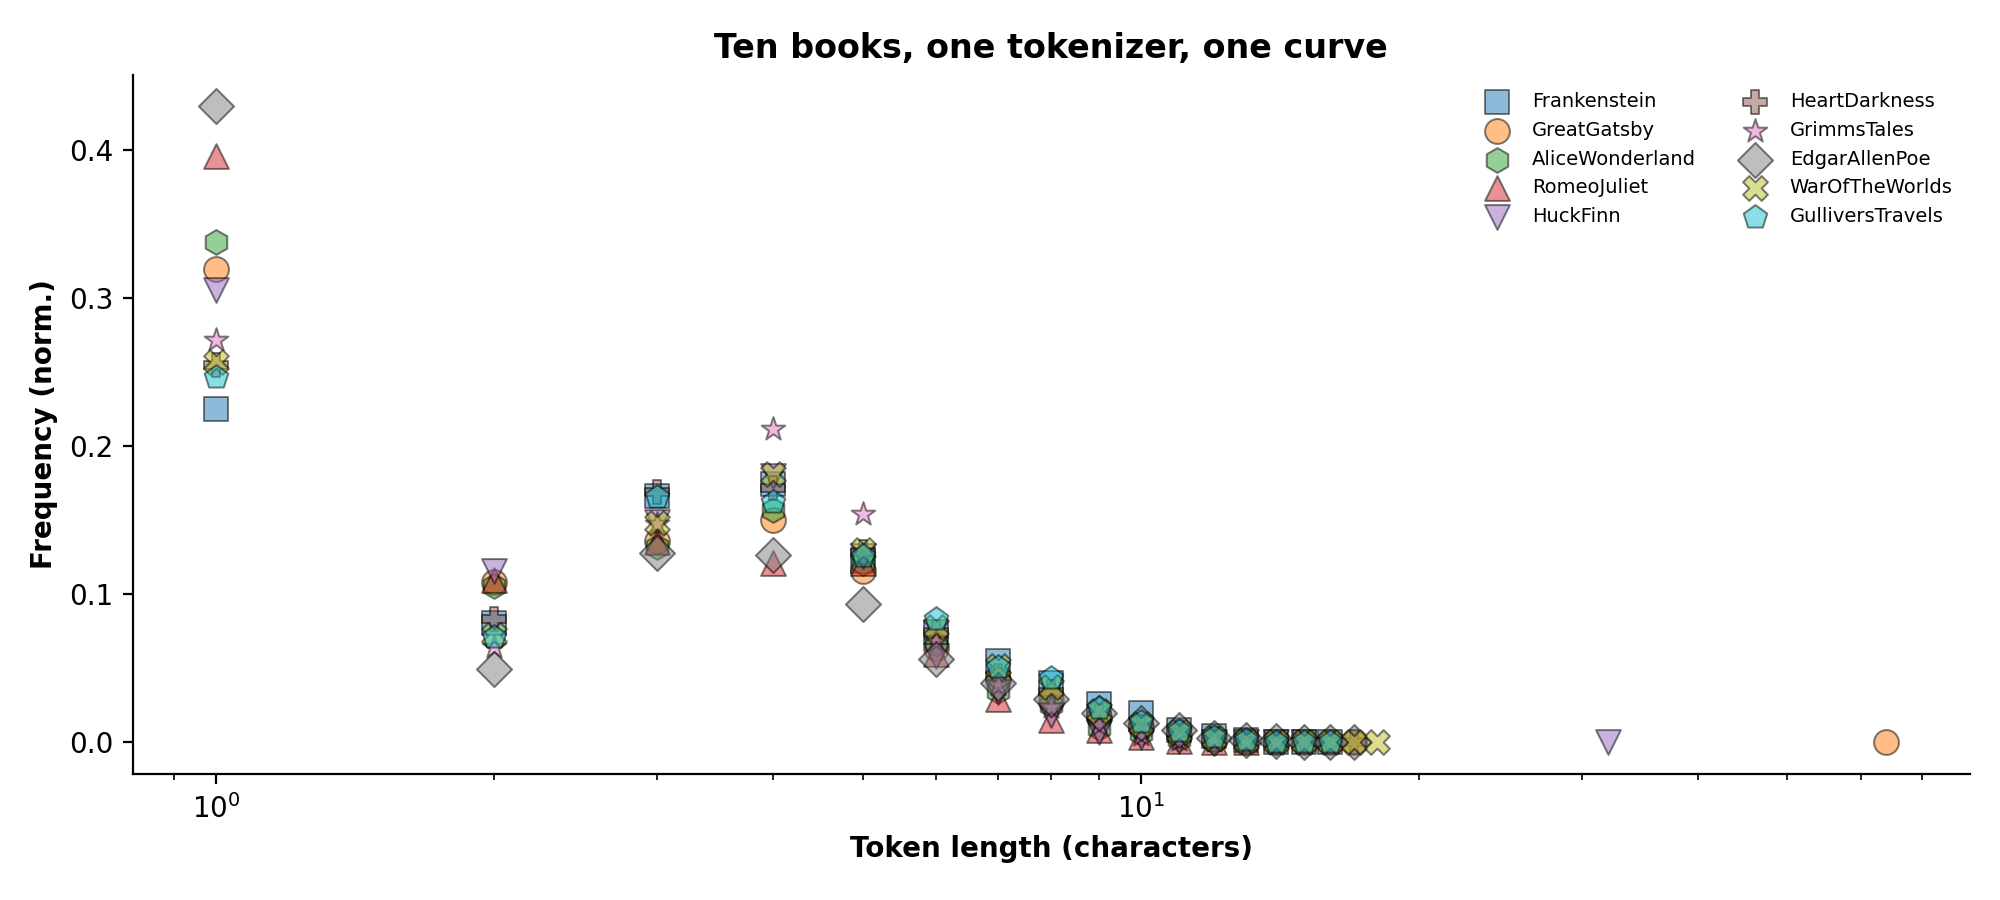
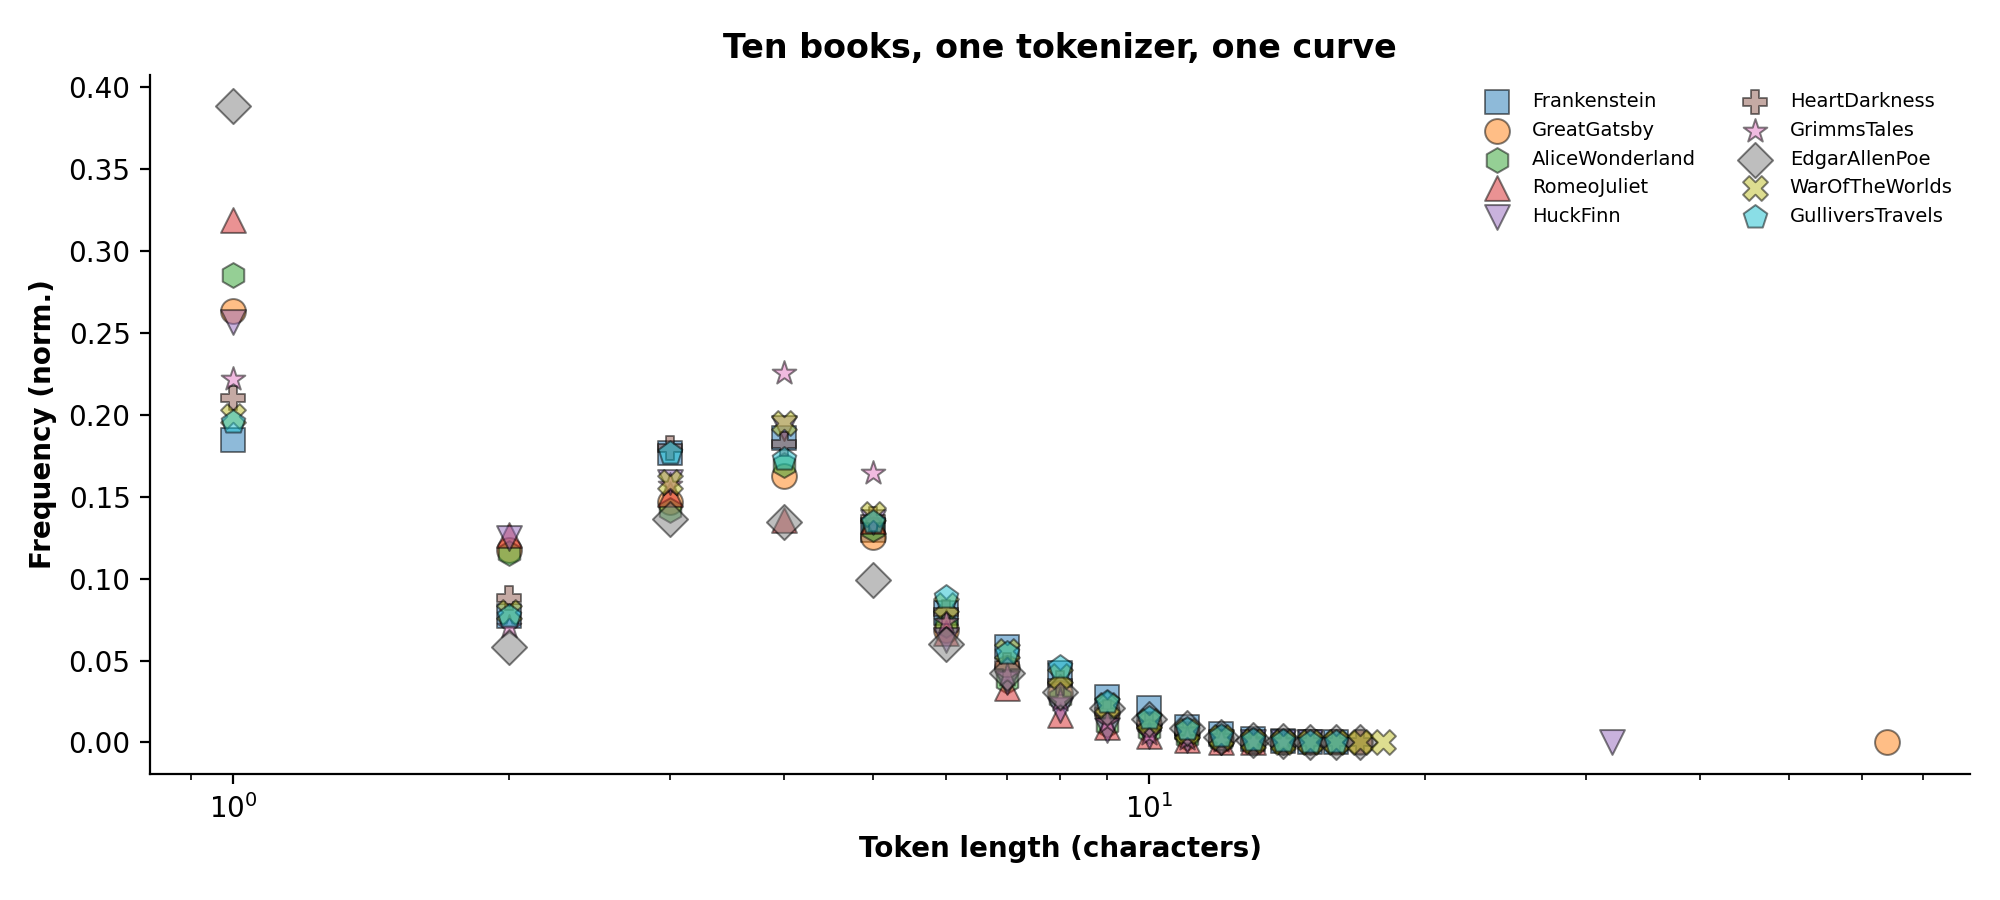
Fix a newline bug that made the cached corpus non-reproducible; add run screenshot
Caught while diffing regenerated results against the committed ones: the token counts
moved 2% on nine of ten books while the character counts stayed identical.

Cause: several Gutenberg files mix lone CR with CRLF, and Path.write_text on Windows
translates LF to CRLF again on the way out, so reading the cache back through universal
newlines doubled every blank line. The Great Gatsby cached at 277,090 characters against
a true 270,690. The first run tokenized the freshly downloaded string and every later run
tokenized the inflated cache: 84,246 tokens versus 82,535. GPT-2 tokenizes CR differently
from LF, which is why the character count hid the problem.

Fix: normalise_newlines() at fetch time and newline="" on write. Cold and warm caches now
agree byte for byte, verified against a live re-download.

All results regenerated on the corrected corpus. The findings are unchanged in substance:
script detection is still 100% on every seed, Telugu and Tamil are still 99.2% single-byte
tokens and still indistinguishable by histogram (L1 0.0020, now 34x closer than any other
pair), and the cost regressor still beats the mean baseline by 39x. The numbers themselves
shifted, so the README tables, the seed sweep and every quoted figure are updated: English
is 4.12 chars/token rather than 3.94, Indic costs 6.1x-10.6x rather than 5.9x-10.2x, and
nine-way language accuracy is 77.8%.

Two regression tests added so this cannot return silently: one on normalise_newlines, one
[…]

diff --git a/project03_token_lengths/corpus.py b/project03_token_lengths/corpus.py
@@ -72,14 +72,30 @@ def _get_polite(url: str, params: dict, tries: int = 6):
     raise RuntimeError(f"still rate-limited after {tries} attempts: {url}")
 
 
+def normalise_newlines(text: str) -> str:
+    """Collapse CRLF and lone CR to LF.
+
+    This is not cosmetic. Several Gutenberg files contain thousands of *lone* CR
+    characters, and Python's universal-newline handling rewrites them to LF when the
+    cache is read back. Without normalising at fetch time, the first run (which
+    tokenizes the freshly downloaded string) and every later run (which reads the
+    cache) see different text and produce different token counts -- for The Great
+    Gatsby, 84,246 tokens versus 82,535, a 2% gap at an identical character count,
+    because GPT-2 tokenizes CR differently from LF. Normalising here makes a cold
+    cache and a warm cache agree.
+    """
+    return text.replace("\r\n", "\n").replace("\r", "\n")
+
+
 def _cached(name: str, fetch) -> str:
     """Return cached text, fetching once if the cache is cold."""
     CACHE.mkdir(exist_ok=True)
     path = CACHE / name
     if path.exists():
-        return path.read_text(encoding="utf-8")
-    text = fetch()
-    path.write_text(text, encoding="utf-8")
+        return normalise_newlines(path.read_text(encoding="utf-8"))
+    text = normalise_newlines(fetch())
+    # newline="" stops Windows translating LF back to CRLF on the way out.
+    path.write_text(text, encoding="utf-8", newline="")
     return text
 
 

diff --git a/project03_token_lengths/test_project03.py b/project03_token_lengths/test_project03.py
@@ -91,6 +91,19 @@ def test_gutenberg_boilerplate_is_stripped():
     assert strip_gutenberg_boilerplate(raw) == "real text"
 
 
+def test_newlines_are_normalised():
+    from corpus import normalise_newlines
+    assert normalise_newlines("a\r\nb\rc\nd") == "a\nb\nc\nd"
+
+
+def test_cached_text_contains_no_carriage_returns(corpus):
+    """The bug this guards against: Windows write_text re-translated LF to CRLF on top
+    of Gutenberg's existing CRLF, so reading the cache back doubled every blank line and
+    the warm cache tokenized differently from the fresh download."""
+    for name, d in corpus.items():
+        assert "\r" not in d["text"], f"{name} still carries CR characters"
+
+
 def test_corpus_is_roughly_balanced_within_script(corpus):
     """Indic samples must be big enough to measure; the first run gave 216 chars."""
     for name, d in corpus.items():

diff --git a/project03_token_lengths/README.md b/project03_token_lengths/README.md
@@ -25,19 +25,19 @@ peak at 4.
 
 | | chars/token |
 |---|---|
-| Romeo & Juliet | 2.89 |
-| Alice in Wonderland | 3.08 |
-| Huckleberry Finn | 3.09 |
-| Edgar Allen Poe | 3.18 |
-| The Great Gatsby | 3.29 |
-| Grimms' Tales | 3.45 |
-| Heart of Darkness | 3.61 |
-| War of the Worlds | 3.76 |
-| Gulliver's Travels | 3.86 |
-| Frankenstein | 3.94 |
+| Romeo & Juliet | 3.11 |
+| Huckleberry Finn | 3.24 |
+| Alice in Wonderland | 3.25 |
+| Edgar Allen Poe | 3.33 |
+| The Great Gatsby | 3.48 |
+| Grimms' Tales | 3.62 |
+| Heart of Darkness | 3.77 |
+| War of the Worlds | 3.97 |
+| Gulliver's Travels | 4.05 |
+| Frankenstein | 4.12 |
 
 Ten books across two centuries, in registers from Elizabethan verse to Mississippi vernacular,
-span **1.06 chars/token end to end**. The tokenizer's vocabulary, not the author, decides where
+span **1.01 chars/token end to end**. The tokenizer's vocabulary, not the author, decides where
 words break. (Romeo & Juliet sits at the bottom because a play is full of speaker labels and
 line breaks, and a newline is a token.)
 
@@ -50,16 +50,16 @@ characters each, balanced on purpose).
 
 | language | script | chars/token | length-1 tokens | cost vs English |
 |---|---|---|---|---|
-| English | Latin | 3.94 | 22.5% | 1.0x |
-| French | Latin | 2.57 | 26.9% | 1.5x |
-| Spanish | Latin | 2.53 | 21.8% | 1.6x |
-| German | Latin | 2.49 | 25.1% | 1.6x |
-| Portuguese | Latin | 2.48 | 22.4% | 1.6x |
-| Italian | Latin | 2.32 | 25.8% | 1.7x |
-| Finnish | Latin | 2.07 | 25.3% | 1.9x |
-| **Hindi** | Indic | 0.67 | **49.0%** | **5.9x** |
-| **Telugu** | Indic | 0.39 | **99.2%** | **10.1x** |
-| **Tamil** | Indic | 0.39 | **99.2%** | **10.2x** |
+| English | Latin | 4.12 | 18.5% | 1.0x |
+| French | Latin | 2.63 | 24.8% | 1.6x |
+| Spanish | Latin | 2.58 | 19.4% | 1.6x |
+| German | Latin | 2.54 | 23.1% | 1.6x |
+| Portuguese | Latin | 2.53 | 19.7% | 1.6x |
+| Italian | Latin | 2.29 | 30.3% | 1.8x |
+| Finnish | Latin | 2.00 | 33.0% | 2.1x |
+| **Hindi** | Indic | 0.67 | **49.0%** | **6.1x** |
+| **Telugu** | Indic | 0.39 | **99.2%** | **10.6x** |
+| **Tamil** | Indic | 0.39 | **99.2%** | **10.6x** |
 
 **What "token length" means here.** GPT-2 is a *byte-level* BPE tokenizer — it never sees
 characters, only UTF-8 bytes mapped into a printable surrogate alphabet. For English one
@@ -70,9 +70,9 @@ characters. The gap between those two numbers *is* the cost story.
 Telugu and Tamil are at **99.2% single-byte tokens**: GPT-2's vocabulary contains essentially no
 merges for either script, so every byte becomes its own token and the tokenizer degenerates to
 raw UTF-8. Hindi sits at 49% — Devanagari appears often enough in GPT-2's training data to have
-earned some merges. That difference is worth 4 percentage points of cost multiplier.
+earned some merges. That difference is worth four and a half multiples of cost.
 
-Even Finnish, in the same alphabet as English, costs 1.9x — agglutinative morphology produces
+Even Finnish, in the same alphabet as English, costs 2.1x — agglutinative morphology produces
 long words the vocabulary has never seen.
 
 ## Part 3: PyTorch on 20 numbers
@@ -82,12 +82,12 @@ split contiguously 70/30 so held-out text comes from a different part of each do
 
 ![predict](part3_predict.png)
 
-**Task 1 — which language?** 78.3% on 9 held-out classes against a 10% chance baseline. Script
+**Task 1 — which language?** 77.8% on 9 held-out classes against a 10% chance baseline. Script
 (Latin vs Indic), which is the question that actually sets the bill, is **100%**.
 
-**Task 2 — what will it cost?** MAE **0.022 chars/token** (1.4% MAPE), against 0.885 for
+**Task 2 — what will it cost?** MAE **0.023 chars/token** (1.6% MAPE), against 0.910 for
 predicting the training mean — **39x better**. On nine English books the model never saw,
-9/9 identified correctly with cost predicted to within 0.07 chars/token.
+9/9 identified correctly with cost predicted to within 0.08 chars/token.
 
 ### Where it fails, and why that is the interesting part
 
@@ -96,24 +96,24 @@ Telugu scores 100% and Tamil 0%. Not a bug, and not fixable by training longer:
 | pair | L1 distance between histograms |
 |---|---|
 | Tamil vs Telugu | **0.0020** |
-| German vs Portuguese | 0.0541 |
-| French vs German | 0.0865 |
+| German vs Portuguese | 0.0685 |
+| French vs German | 0.0874 |
 
-The two closest non-Indic languages are **27x further apart** than Telugu and Tamil. Both scripts
+The two closest non-Indic languages are **34x further apart** than Telugu and Tamil. Both scripts
 collapse to pure byte tokens, so their fingerprints coincide and the classifier can only pick one.
 Which one it picks is a coin flip decided by the initialisation seed:
 
 | seed | overall | Telugu | Tamil | script |
 |---|---|---|---|---|
-| 0 | 78.3% | 100% | 0% | 100% |
-| 1 | 78.7% | 0% | 100% | 100% |
-| 2 | 78.3% | 100% | 0% | 100% |
-| 3 | 78.7% | 100% | 0% | 100% |
-| 4 | 77.0% | 0% | 100% | 100% |
-| 5 | 80.0% | 100% | 0% | 100% |
+| 0 | 77.8% | 100% | 0% | 100% |
+| 1 | 79.6% | 0% | 100% | 100% |
+| 2 | 80.4% | 0% | 100% | 100% |
+| 3 | 79.1% | 100% | 0% | 100% |
+| 4 | 79.1% | 0% | 100% | 100% |
+| 5 | 79.1% | 0% | 100% | 100% |
 
 Honest read: the histogram is a **cost** feature, not a **language-ID** feature. It nails the
-thing you would actually use it for — 100% script detection and 1.4% cost error, every seed — and
+thing you would actually use it for — 100% script detection and 1.6% cost error, every seed — and
 it cannot separate two languages the tokenizer treats identically. Telling Telugu from Tamil needs
 a feature that looks at *which* bytes, not how many.
 
@@ -128,8 +128,11 @@ python part3_predict.py
 python -m pytest test_project03.py -q
 ```
 
-All 16 tests pass. The full run takes a few minutes on first execution while the corpus downloads;
-everything after that is offline.
+![run](screenshots/project03_run.png)
+
+The full run takes a few minutes on first execution while the corpus downloads; everything after
+that is offline. Use an interpreter that actually has the dependencies — on this machine the
+Anaconda `base` environment has no `torch`, so the run must use the system Python 3.13.
 
 ## Files
 
@@ -141,13 +144,22 @@ everything after that is offline.
 | `part2_language_cost.py` | nine-language table and cost multipliers |
 | `model.py` | the two PyTorch heads |
 | `part3_predict.py` | training, held-out evaluation, unseen-document check |
-| `test_project03.py` | 16 tests |
+| `test_project03.py` | 18 tests |
 | `PROMPT.md` | the prompt this project was built from |
 
-Two API traps worth knowing, both of which cost a debugging cycle here and are commented in
-`corpus.py`: MediaWiki silently caps `exlimit` to 1 unless `exintro` is set, so a request for 20
-full extracts returns one; and random Wikipedia draws in te/hi/ta are overwhelmingly stubs, which
-is how the first "Hindi corpus" came back at 216 characters.
+Three traps worth knowing, all commented in `corpus.py`:
+
+1. MediaWiki silently caps `exlimit` to 1 unless `exintro` is set, so a request for 20 full
+   extracts returns one.
+2. Random Wikipedia draws in te/hi/ta are overwhelmingly stubs, which is how the first "Hindi
+   corpus" came back at 216 characters.
+3. The one that quietly corrupted results: several Gutenberg files mix lone CR with CRLF, and
+   `Path.write_text` on Windows translates LF to CRLF *again* on the way out. Reading the cache
+   back through universal newlines then **doubled every blank line** — The Great Gatsby cached at
+   277,090 characters against a true 270,690. The first run (fresh download) and every later run
+   (warm cache) therefore tokenized different text: 84,246 tokens versus 82,535, a 2% gap.
+   `normalise_newlines` plus `newline=""` on write fixes it, and the cold and warm caches now
+   agree byte for byte.
 
 Source text is cached under `cache/` and not committed — only derived statistics are.
 No book text is reproduced here.
